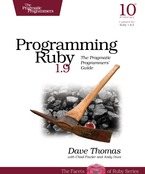
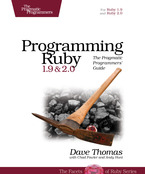
Update ruby title and book cover

diff --git a/edition4/checkdepot.rb b/edition4/checkdepot.rb
@@ -119,7 +119,7 @@ class DepotTest < Gorp::TestCase
     assert_select 'input[type=submit][value=Add to Cart]'
     assert_select "a[href=http://localhost:#{$PORT}/carts/1]", 'redirected'
     assert_select '#notice', 'Line item was successfully created.'
-    assert_select 'li', 'Programming Ruby 1.9'
+    assert_select 'li', 'Programming Ruby 1.9 &amp; 2.0'
   end
 
   section 9.4, "Playtime" do
@@ -387,7 +387,7 @@ class DepotTest < Gorp::TestCase
 
   section 25.1, 'rack' do
     assert_select 'p', '34.95'
-    assert_select 'h2', 'Programming Ruby 1.9'
+    assert_select 'h2', 'Programming Ruby 1.9 &amp; 2.0'
   end
 
   section 25.2, 'rake' do

diff --git a/edition4/data/products/seeds.rb b/edition4/data/products/seeds.rb
@@ -15,7 +15,7 @@ Product.create(:title => 'CoffeeScript',
   :price => 36.00)
 #START:vcc
 # . . .
-Product.create(:title => 'Programming Ruby 1.9',
+Product.create(:title => 'Programming Ruby 1.9 & 2.0',
   :description =>
     %{<p>
         Ruby is the fastest growing and most exciting dynamic language
